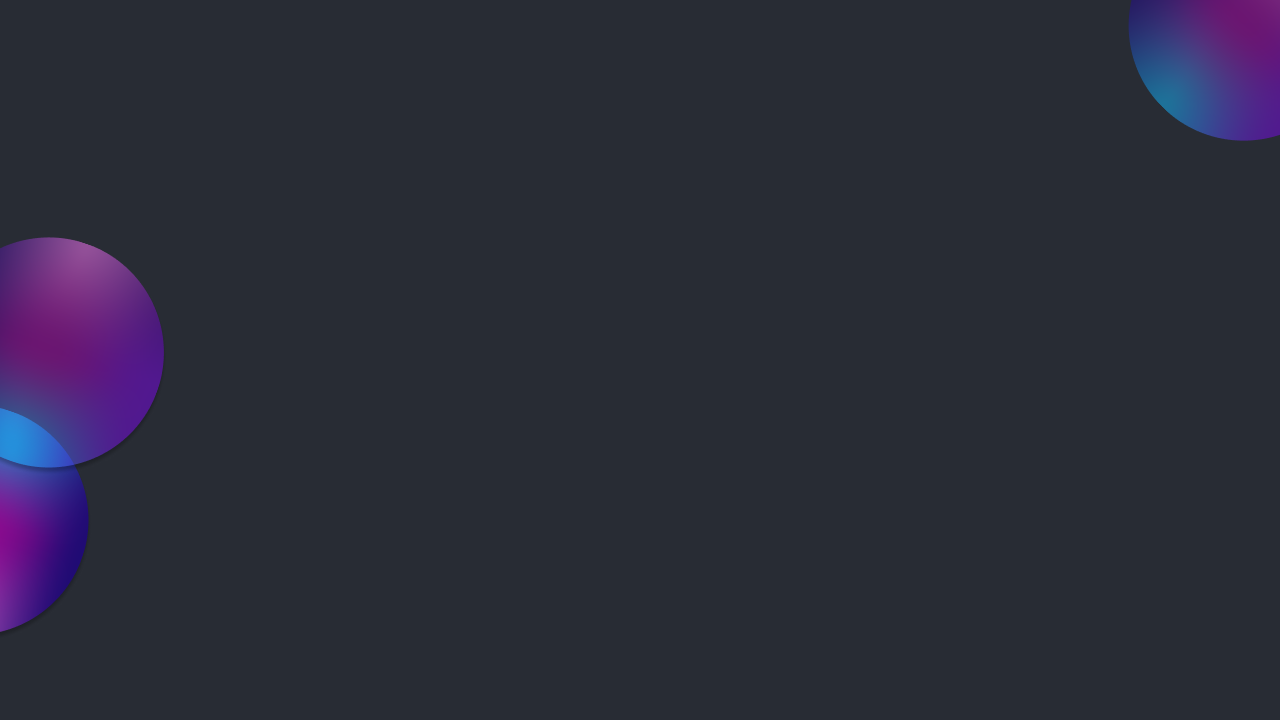
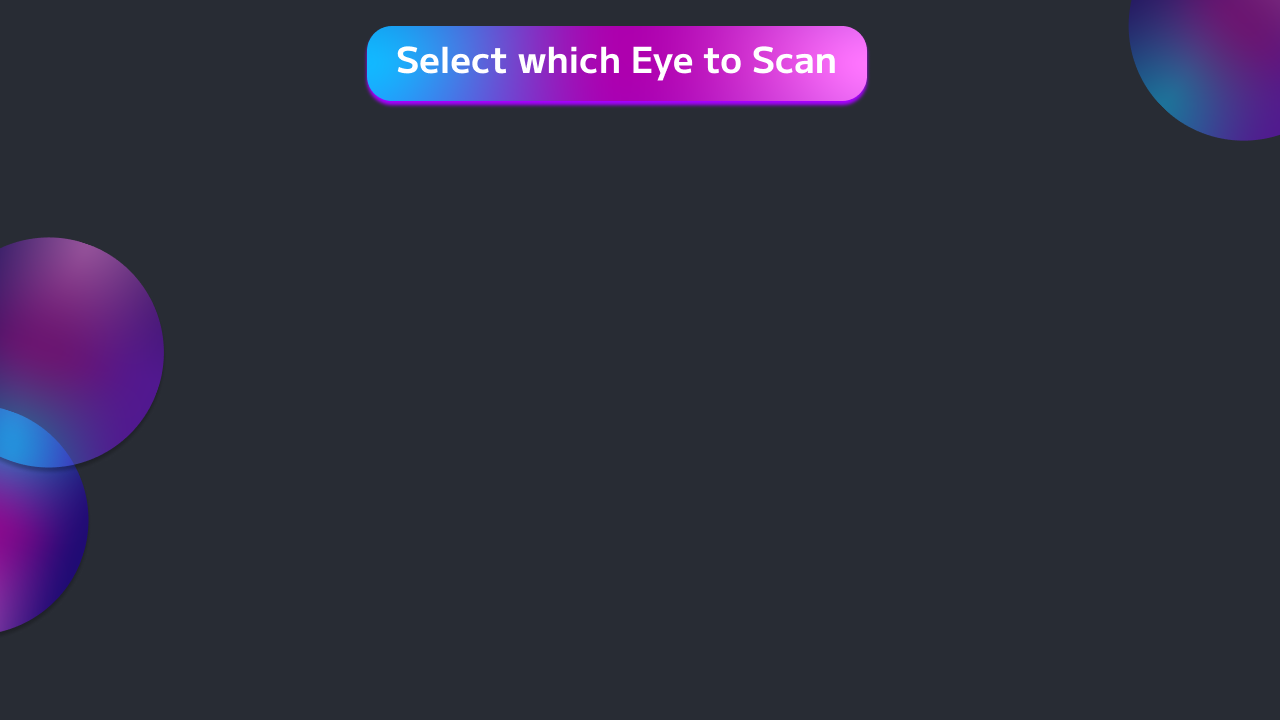
Add function to create buttons

Changed region(s): [[0.2812, 0.0306, 0.6875, 0.1528]]

diff --git a/src/interface/touchscreen_ui.py b/src/interface/touchscreen_ui.py
@@ -285,11 +285,49 @@ class TouchscreenUI:
         )
         done_button.place(relx=0.5, rely=0.9, anchor="center")
 
+    def create_button(self, canvas, x, y, img, events):
+        # Set start button position and bind
+        button_x, button_y = 40, 60
+        button = canvas.create_image(x, y, image=img)
+        def on_click(event):
+            events()
+        canvas.tag_bind(button, "<Button-1>", on_click)
+
     def show_eye_selection_screen(self):
         """
         Show the eye selection screen for capturing left and right eye images.
         """
         self._clear_frame()
+
+        # Open and set assets
+        bg_image = Image.open(BASE_PATH / "assets/eye select/Eye Selection screen.png")
+        back_button_image = Image.open(BASE_PATH / "assets/eye select/Back Button.png")
+        submit_button_image = Image.open(BASE_PATH / "assets/eye select/Submit Button.png")
+        select_left_eye_image = Image.open(BASE_PATH / "assets/eye select/left eye.png")
+        select_right_eye_image = Image.open(BASE_PATH / "assets/eye select/right eye.png")
+
+        self.bg_photo = ImageTk.PhotoImage(bg_image)
+        self.back_button_image = ImageTk.PhotoImage(back_button_image)
+        self.submit_button_image = ImageTk.PhotoImage(submit_button_image)
+        self.select_left_eye_image = ImageTk.PhotoImage(select_left_eye_image)
+        self.select_right_eye_image = ImageTk.PhotoImage(select_right_eye_image)
+
+        # Set Canvas background image
+        canvas = tk.Canvas(self.current_frame, width=1280, height=720)
+        canvas.create_image(0, 0, image=self.bg_photo, anchor="nw")
+        canvas.pack(fill="both", expand=True)
+
+        # Set start button position and bind
+        button_x, button_y = 40, 60
+        
+        self.create_button(canvas, button_x, button_y, self.back_button_image, self.show_welcome_screen)
+
+        # Set simulation button position and bind
+        sim_button_x, sim_button_y = 1125, 650
+        canvas_simulation_button = canvas.create_image(sim_button_x, sim_button_y, image=self.simulation_button_photo)
+        def on_simulation_click(event):
+            self.show_simulation_screen()
+        canvas.tag_bind(canvas_simulation_button, "<Button-1>", on_simulation_click)
 
         # Prompt label
         prompt_label = tk.Label(self.current_frame, text="Select which eye to scan:", font=("Helvetica", 18))
